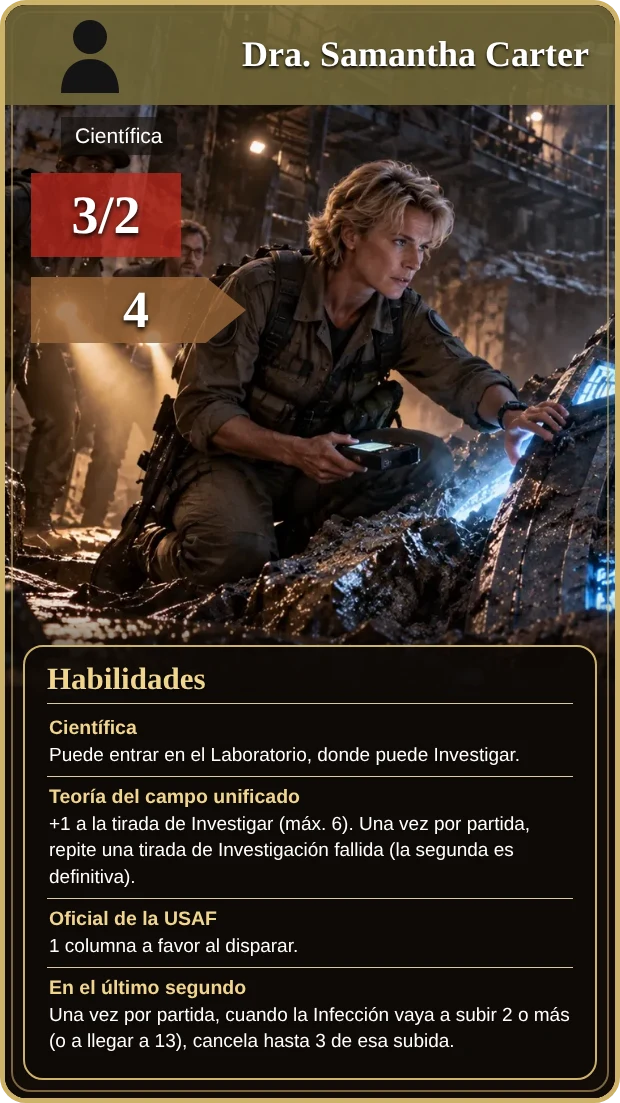
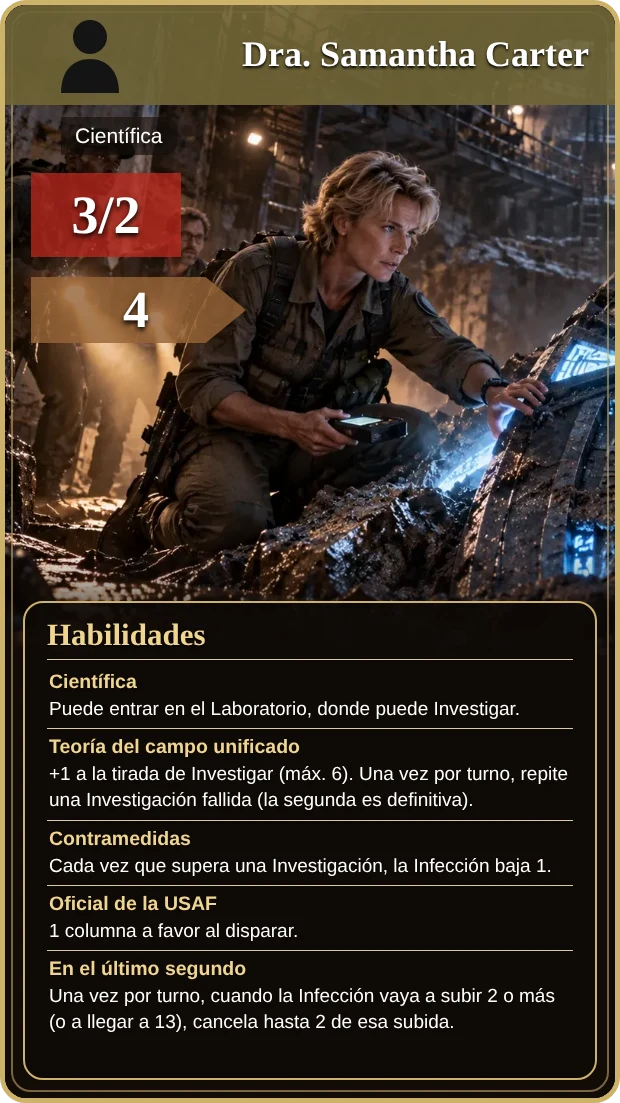
Dra. Carter: habilidades por turno y Contramedidas (la Infección baja al superar una Investigación)
Claude-Session: https://claude.ai/code/session_01KmRiLam16qxK6v4ebdfK1d

diff --git a/js/expansions.js b/js/expansions.js
@@ -25,7 +25,7 @@ Object.assign(HEROES, {
   doc: { name: 'Dr. Emmett «Doc» Brown', type: 'hero', cls: 'Científico', full: 2, red: 1, mp: 4, img: 'doc', lv: 3, exp: 4,
     txt: ['<b>Científico:</b> puede entrar en el Laboratorio, donde puede Investigar.', '<b>Mr. Fusion:</b> si al Buscar no encuentra nada, obtiene 1 Suministro.', '<b>Salto temporal:</b> Acción de Personaje (3 Suministros), una vez por turno, solo desde el Centro. Doc, con una unidad agrupada con él si quiere, viaja a un espacio de ruta de superficie sin Zeds que no sea Inicial. La unidad acompañante puede quedarse allí (no pueden acompañarlo Pepinillos, Horacio, el General Lee ni Carter). Doc vuelve al Centro al final del turno, tras el Mantenimiento, y puede volver solo, con la unidad que llevó o con otra que esté en su espacio.', '<b>Paradoja:</b> si Doc está en un espacio con Caos durante el Mantenimiento, restaurar el orden allí no sube la Infección.'] },
   samcarter: { name: 'Dra. Samantha Carter', type: 'hero', cls: 'Científica', full: 3, red: 2, mp: 4, img: 'samcarter', lv: 3, exp: 4,
-    txt: ['<b>Científica:</b> puede entrar en el Laboratorio, donde puede Investigar.', '<b>Teoría del campo unificado:</b> +1 a la tirada de Investigar (máx. 6). Una vez por partida, repite una tirada de Investigación fallida (la segunda es definitiva).', '<b>Oficial de la USAF:</b> 1 columna a favor al disparar.', '<b>En el último segundo:</b> una vez por partida, cuando la Infección vaya a subir 2 o más (o a llegar a 13), cancela hasta 3 de esa subida.'] },
+    txt: ['<b>Científica:</b> puede entrar en el Laboratorio, donde puede Investigar.', '<b>Teoría del campo unificado:</b> +1 a la tirada de Investigar (máx. 6). Una vez por turno, repite una tirada de Investigación fallida (la segunda es definitiva).', '<b>Oficial de la USAF:</b> 1 columna a favor al disparar.', '<b>Contramedidas:</b> cada vez que supera una Investigación, la Infección baja 1.', '<b>En el último segundo:</b> una vez por turno, cuando la Infección vaya a subir 2 o más (o a llegar a 13), cancela hasta 2 de esa subida.'] },
   macgyver: { name: 'Angus MacGyver', type: 'hero', cls: 'Ciudadano', full: 3, red: 2, mp: 4, img: 'macgyver', lv: 2, exp: 4, nofire: 1, sci: 1,
     txt: ['<b>Pacifista:</b> no dispara con armas de fuego.', '<b>Ingeniero:</b> puede entrar en el Laboratorio, donde puede Investigar. Si la tirada falla por 1, puede gastar 1 Suministro para sumarle +1.', '<b>Con lo que hay:</b> Acción de Personaje (1 vez por turno): convierte 1 Suministro en 2 Munición.', '<b>Cinta americana:</b> construye Barricadas por 1 Suministro.', '<b>Siempre hay otra salida:</b> al ser atacado por Zeds en una ruta, tira 1 dado: con 4-6 se retira gratis 1 espacio hacia el Centro antes del combate.'] },
   sar: { name: 'Búsqueda y Rescate (SAR)', type: 'civh', cls: 'Civiles Heroicos', full: 3, red: 2, mp: 3, img: 'sar', card: 'h_sar', lv: 2, exp: 4, hf: 2, hr: 2,

diff --git a/js/actions.js b/js/actions.js
@@ -105,13 +105,17 @@ async function doInvestigate(u, free) {
   const ib = u.key === 'agee' || u.key === 'samcarter' ? 1 : 0, mods = ib ? [{ label: u.key === 'agee' ? 'Profesora Agee' : 'Samantha Carter', v: 1 }] : [];
   let dice = await UI.rollSimple('Investigar (hace falta ' + c.th + '+)', 1, null, { mods });
   let r = Math.min(6, dice[0] + ib);
-  if (r < c.th && u.key === 'samcarter' && !G.once.samRepeat) {
-    const v = await UI.choose({ title: 'Teoría del campo unificado', text: 'La Investigación ha fallado (' + r + '). ¿Repites la tirada? Solo una vez por partida; la segunda es definitiva.', options: [{ label: 'Repetir', value: 'y' }, { label: 'No', value: 'n' }] });
-    if (v === 'y') { G.once.samRepeat = true; dice = await UI.rollSimple('Investigar otra vez (hace falta ' + c.th + '+)', 1, null, { mods }); r = Math.min(6, dice[0] + ib); }
+  if (r < c.th && u.key === 'samcarter' && !G.charUsed.samRepeat) {
+    const v = await UI.choose({ title: 'Teoría del campo unificado', text: 'La Investigación ha fallado (' + r + '). ¿Repites la tirada? Solo una vez por turno; la segunda es definitiva.', options: [{ label: 'Repetir', value: 'y' }, { label: 'No', value: 'n' }] });
+    if (v === 'y') { G.charUsed.samRepeat = true; dice = await UI.rollSimple('Investigar otra vez (hace falta ' + c.th + '+)', 1, null, { mods }); r = Math.min(6, dice[0] + ib); }
   }
   if (r < c.th && r + 1 >= c.th && u.key === 'macgyver' && G.supplies >= 1 && await UI.choose({ title: 'Ingeniero', text: 'La Investigación ha fallado (' + r + '). ¿Gastas 1 Suministro para sumar +1 y conseguirla?', options: [{ label: 'Gastar 1 Suministro', value: 'y' }, { label: 'No', value: 'n' }] }) === 'y') { G.supplies--; r++; LOG('MacGyver improvisa con 1 Suministro (+1).', 'good'); }
   EVT('investigar', u.id, { carta: c.id, nombre: c.name, umbral: c.th, dado: dice[0], resultado: r, exito: r >= c.th, suministro: !!c.sup, sinAccion: !!usingSup });
-  if (r >= c.th) { LOG('Investigación con éxito (' + r + ').', 'good'); G.turn.researched = true; await revealResearch(); }
+  if (r >= c.th) {
+    LOG('Investigación con éxito (' + r + ').', 'good'); G.turn.researched = true;
+    if (u.key === 'samcarter' && G.lv.infection && G.inf > 0) { infDown(1); LOG('Contramedidas: Samantha Carter reduce la Infección en 1.', 'good'); }
+    await revealResearch();
+  }
   else LOG('La Investigación fracasa (' + r + ').', 'bad');
   UI.updateStats(); return true;
 }

diff --git a/js/engine.js b/js/engine.js
@@ -240,9 +240,9 @@ function alreadyHas(rid) { return G.res && G.res.cur && G.res.cur.id === rid; }
 async function infUp(n) {
   if (!G.lv.infection || n <= 0) return;
   const sam = alive('samcarter');
-  if (sam && !G.once.samLast && (n >= 2 || G.inf + n >= 13)) {
-    const v = await UI.choose({ title: 'En el último segundo', text: 'La Infección va a subir +' + n + '. Samantha Carter puede cancelar hasta 3 de esa subida (una vez por partida). ¿La usas?', options: [{ label: 'Cancelar ' + Math.min(3, n), value: 'y' }, { label: 'No', value: 'n' }] });
-    if (v === 'y') { G.once.samLast = true; const c = Math.min(3, n); n -= c; LOG('En el último segundo: Samantha Carter cancela ' + c + ' de Infección.', 'good'); if (n <= 0) return; }
+  if (sam && !G.charUsed.samLast && (n >= 2 || G.inf + n >= 13)) {
+    const v = await UI.choose({ title: 'En el último segundo', text: 'La Infección va a subir +' + n + '. Samantha Carter puede cancelar hasta 2 de esa subida (una vez por turno). ¿La usas?', options: [{ label: 'Cancelar ' + Math.min(2, n), value: 'y' }, { label: 'No', value: 'n' }] });
+    if (v === 'y') { G.charUsed.samLast = true; const c = Math.min(2, n); n -= c; LOG('En el último segundo: Samantha Carter cancela ' + c + ' de Infección.', 'good'); if (n <= 0) return; }
   }
   while (G.inf + n >= 13 && !G.inWild && await offerHandCards('inf', 'La Infección subirá +' + n + ' y llegaría a 13: <b>Brote Descontrolado</b>.', true)) { }
   const i0 = G.inf; G.inf = Math.min(13, G.inf + n); EVT('inf', null, { de: i0, to: G.inf, d: n }); UI.updateStats(); UI.fxInf(G.inf - i0);

diff --git a/sw.js b/sw.js
@@ -1,7 +1,7 @@
 /* Service worker: permite instalar la web como app y jugar sin conexión.
    Código (html/js/css): red primero, con copia local de reserva. Imágenes y audio: caché primero. */
 'use strict';
-const CACHE = 'doz3-v58';
+const CACHE = 'doz3-v59';
 const SHELL = ['./', 'index.html', 'style.css', 'manifest.webmanifest', 'icons/icon-192.png', 'icons/icon-512.png', 'assets/portada.jpg', 'assets/fondo_nueva.webp', 'assets/fondo_ranking.webp',
   'js/version.js', 'js/data.js', 'js/events.js', 'js/dest.js', 'js/evlog.js', 'js/preview.js', 'js/obituario.js', 'js/engine.js', 'js/game.js', 'js/phases.js', 'js/actions.js', 'js/cardtext.js', 'js/ui.js', 'js/anim.js',
   'js/expansions.js', 'js/expansions2.js', 'js/sfx.js', 'js/sound.js', 'js/opciones.js', 'js/voz.js', 'js/ost.js', 'assets/sonidos/letras/letras.js', 'assets/sonidos/efectos/sfx_disparo.mp3', 'assets/sonidos/efectos/sfx_disparo_largo.mp3', 'js/mapzoom.js', 'js/seedcode.js', 'js/save.js', 'js/main.js', 'js/bot.js'];

diff --git a/js/version.js b/js/version.js
@@ -1,2 +1,2 @@
 /* Fecha y hora de la última build (hora de Madrid). Se actualiza con cada cambio publicado. */
-const BUILD_TIME = '2026-11-01 02:00';
+const BUILD_TIME = '2026-11-01 02:40';

diff --git a/CHANGELOG.md b/CHANGELOG.md
@@ -2,6 +2,15 @@
 
 Registro de cambios por publicación (push a `main`). Lo más reciente, arriba. Cada entrada lleva la misma fecha y hora que `BUILD_TIME` de `js/version.js`.
 
+## 2026-11-01 02:40
+
+### Cambios
+- **Dra. Samantha Carter, rediseño:** sus habilidades «una vez por partida» pasan a ser por turno y gana una propia que la distingue de las demás científicas: la que combate la Infección con la investigación.
+  - **Teoría del campo unificado:** repite una Investigación fallida **una vez por turno** (antes, una vez por partida).
+  - **Contramedidas (nueva):** cada vez que supera una Investigación, la Infección baja 1.
+  - **En el último segundo:** **una vez por turno**, cuando la Infección vaya a subir 2 o más (o a llegar a 13), cancela hasta **2** de esa subida (antes, hasta 3 una vez por partida).
+  - Carta regenerada con las nuevas habilidades.
+
 ## 2026-11-01 02:00
 
 ### Fixes
